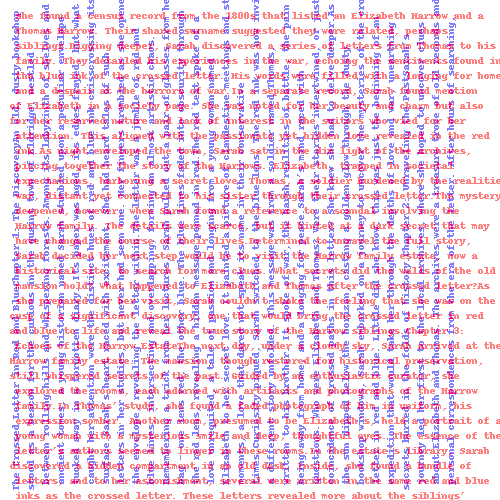
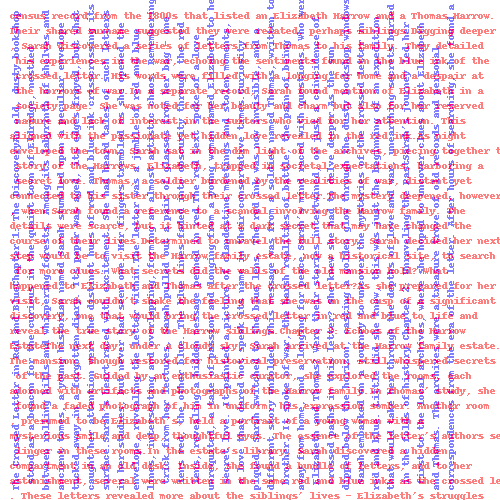
fixing long last sentance

Changed region(s): [[0.0, 0.0, 1.0, 1.0]]

diff --git a/Crossed_Letter_Main.py b/Crossed_Letter_Main.py
@@ -71,15 +71,23 @@ def text_clean(text):
     for i in range(0, len(cleaned_text), 80):
         if i + 1 < len(cleaned_text):  # Ensure i+1 is a valid index
             if cleaned_text[i] in ' .,?!:;':
-                cleaned_text = cleaned_text[:i] + '\n' + cleaned_text[i+1:]
-            elif cleaned_text[i].isalpha() and cleaned_text[i+1] in ' .,?!:;':
+                cleaned_text = cleaned_text[:i] + '\n' + cleaned_text[i:]
+            elif (cleaned_text[i].isalpha() or cleaned_text[i] == "'") and cleaned_text[i+1] in " .,?!:;'":
                 cleaned_text = cleaned_text[:i+1] + '\n' + cleaned_text[i+1:]
-            elif cleaned_text[i].isalpha() and cleaned_text[i+1].isalpha():
+            elif (cleaned_text[i].isalpha() or cleaned_text[i] == "'") and (cleaned_text[i].isalpha() or cleaned_text[i] == "'"):
                 for j in range(i, max(0, i-80), -1):  # Iterate backwards from i
                     if cleaned_text[j] == ' ':
-                        cleaned_text = cleaned_text[:j] + '\n' + cleaned_text[j:]
+                        cleaned_text = cleaned_text[:j] + '\n' + cleaned_text[j+1:]
                         break  # Exit the loop once a space is found
-            
+
+    # Check if the last line is longer than 80 characters
+    last_newline = cleaned_text.rfind('\n')
+    if len(cleaned_text) - last_newline > 80:
+        for j in range(len(cleaned_text), last_newline, -1):
+            if cleaned_text[j] == ' ':
+                cleaned_text = cleaned_text[:j] + '\n' + cleaned_text[j+1:]
+                break  # Exit the loop once a space is found
+
 
     # Count the total number of lines and determine how many images will be processed
     total_lines = len(cleaned_text.split('\n'))
